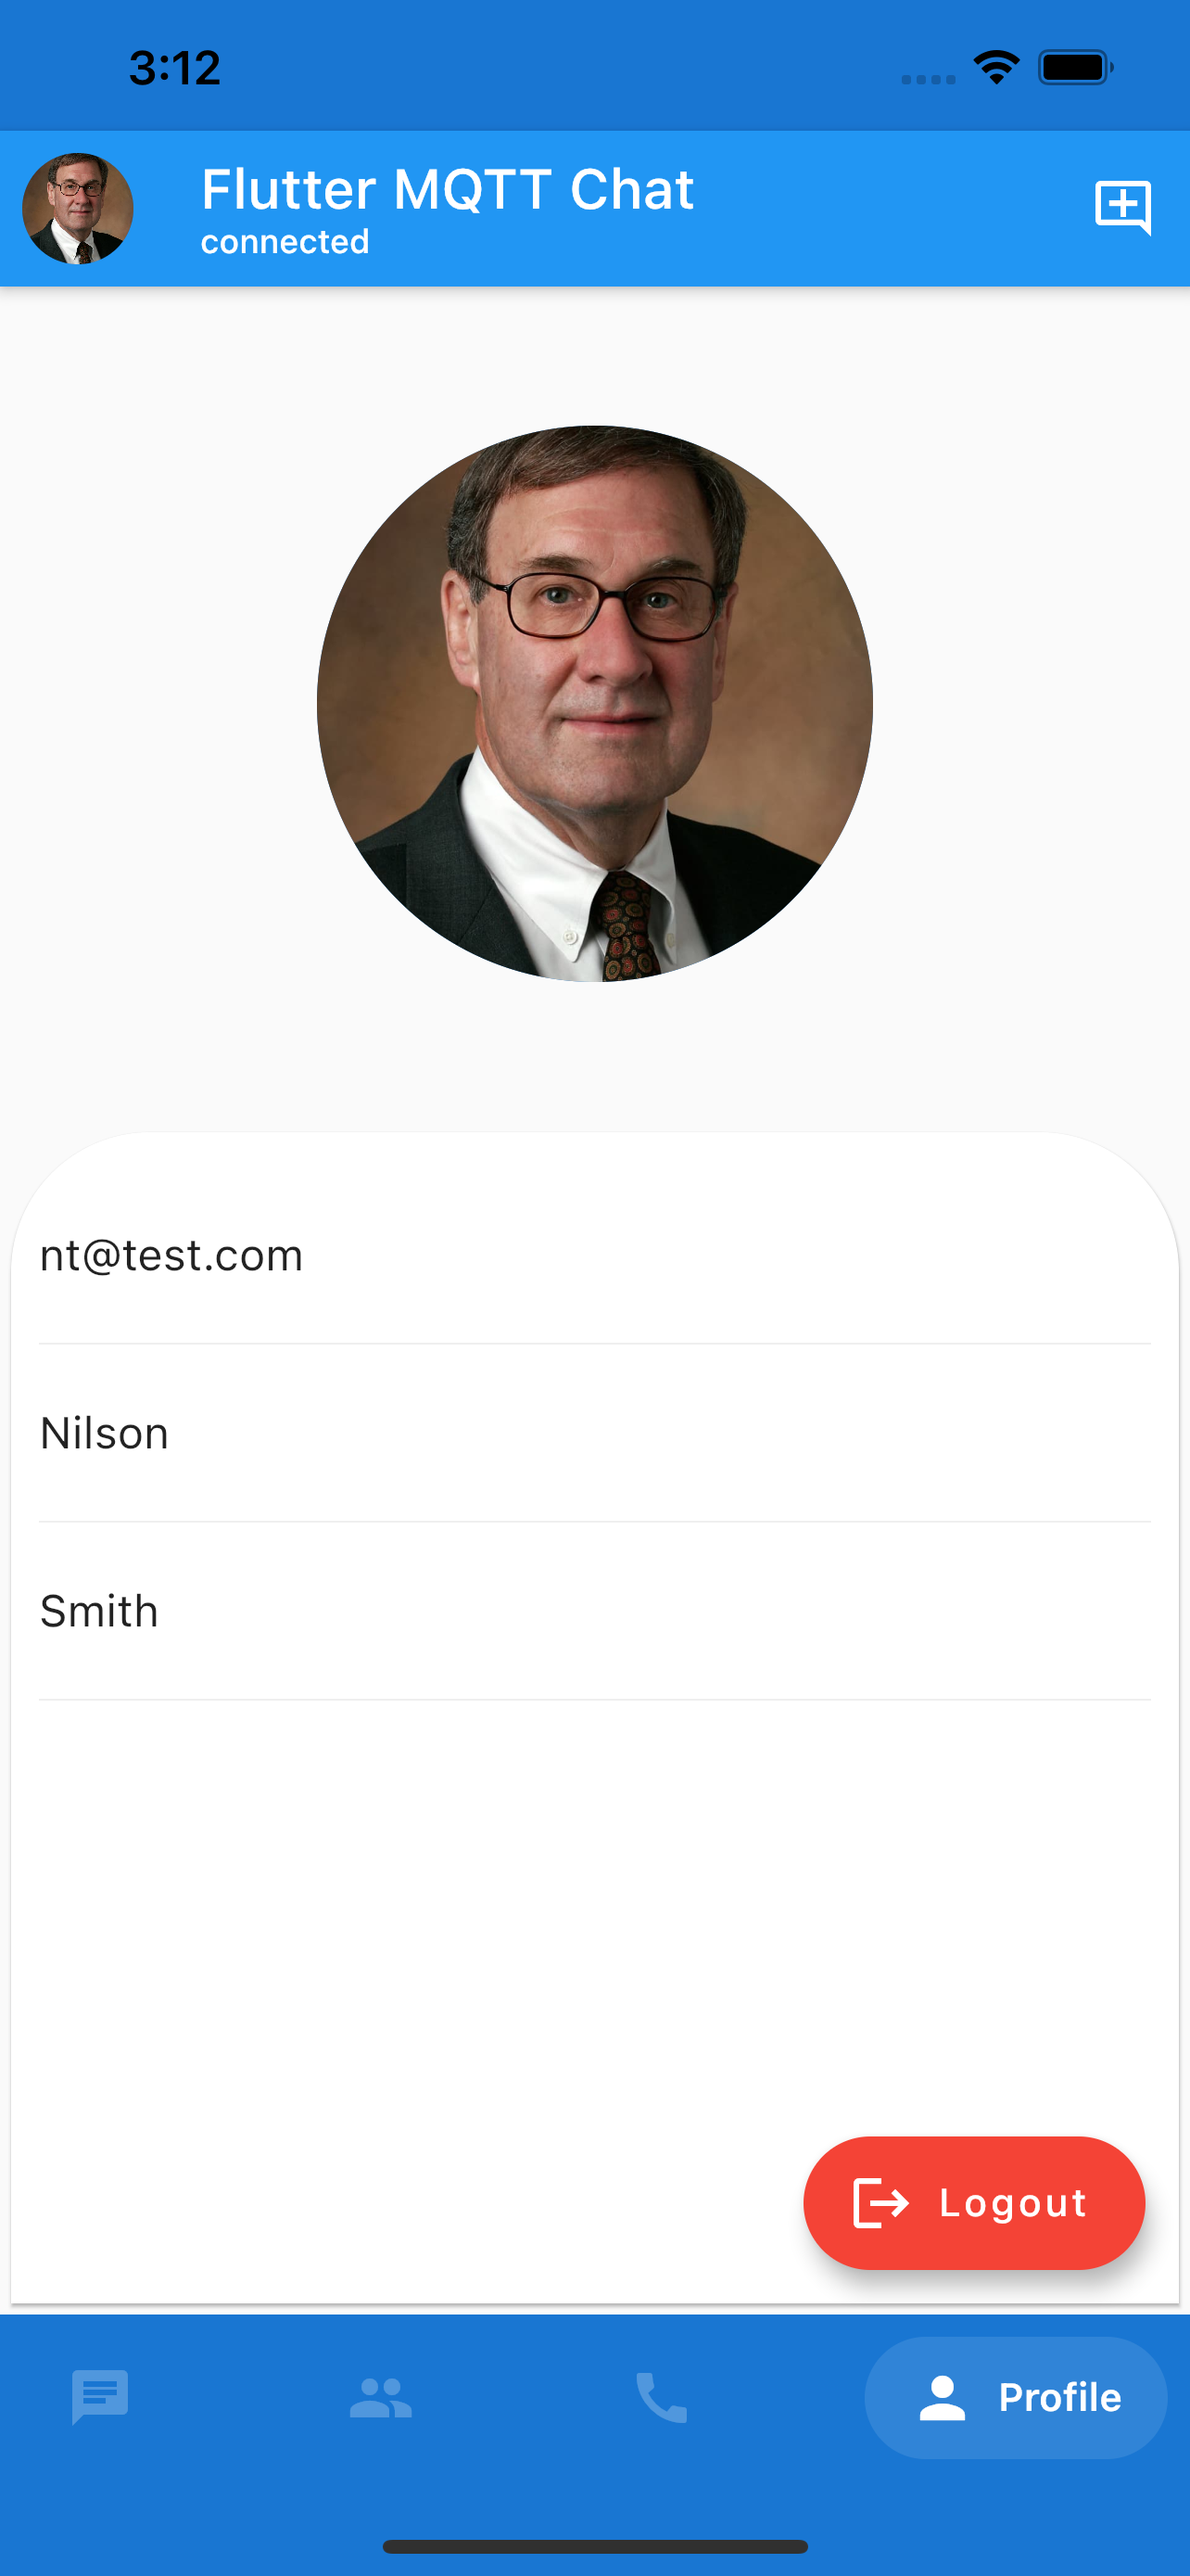
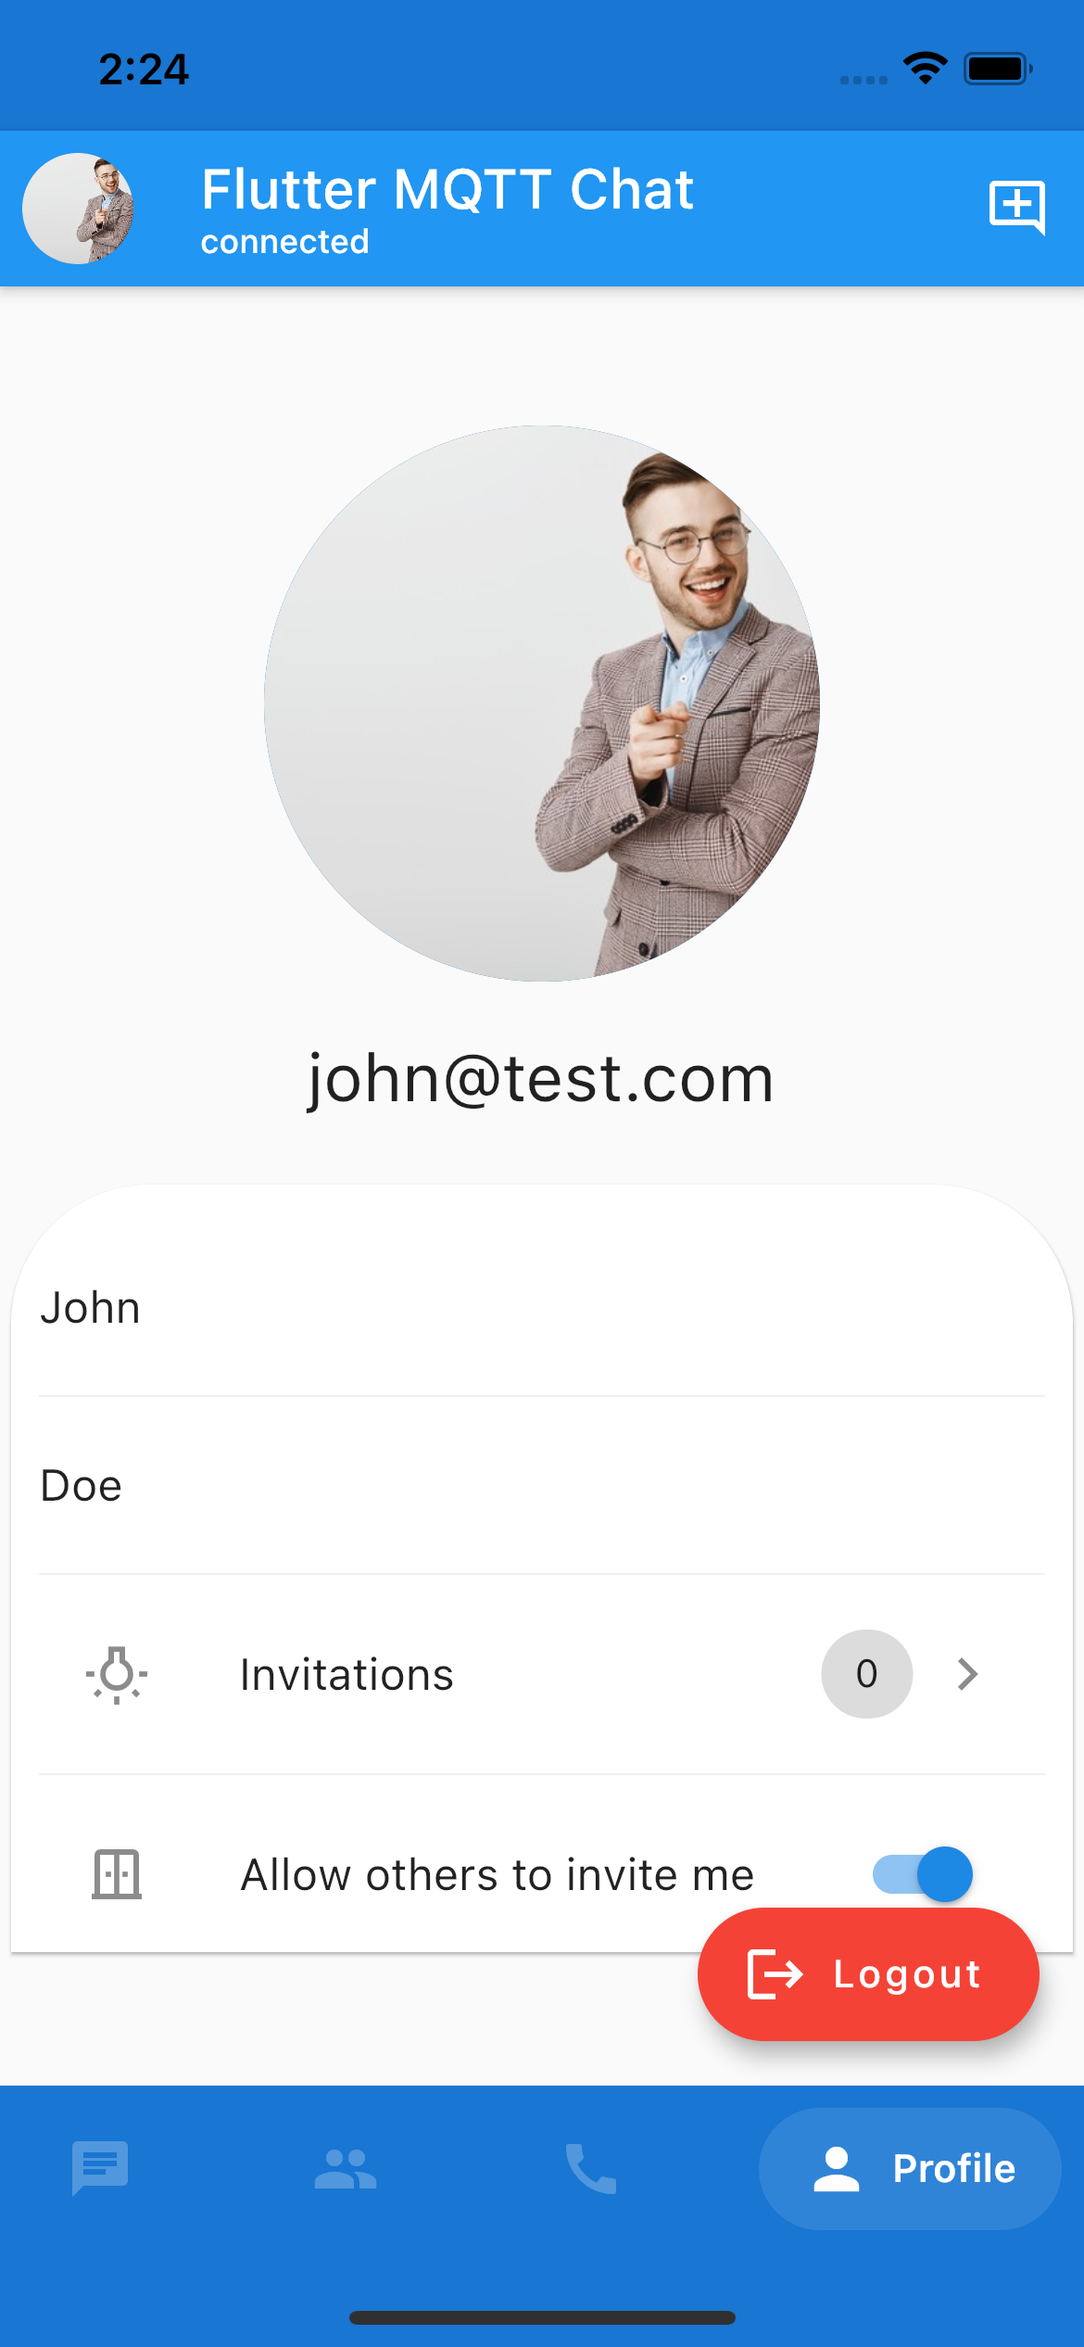
update readme

diff --git a/README.md b/README.md
@@ -5,6 +5,8 @@ The Broker should install [HiveMQ Chat-Extension](https://github.com/WahidNasri/
 | Login      | Rooms      | Chat
 |:------------:|:-------------:|:-------:
 | ![A test image,](screenshots/sc1.png) | ![A test image,](screenshots/sc2.png) |![A test image,](screenshots/sc3.png)
+|Profile | Contact details | Media messages
+| ![A test image,](screenshots/sc4.png) | ![A test image,](screenshots/sc5.png) |![A test image,](screenshots/sc6.png)
 
 
 ## Features
